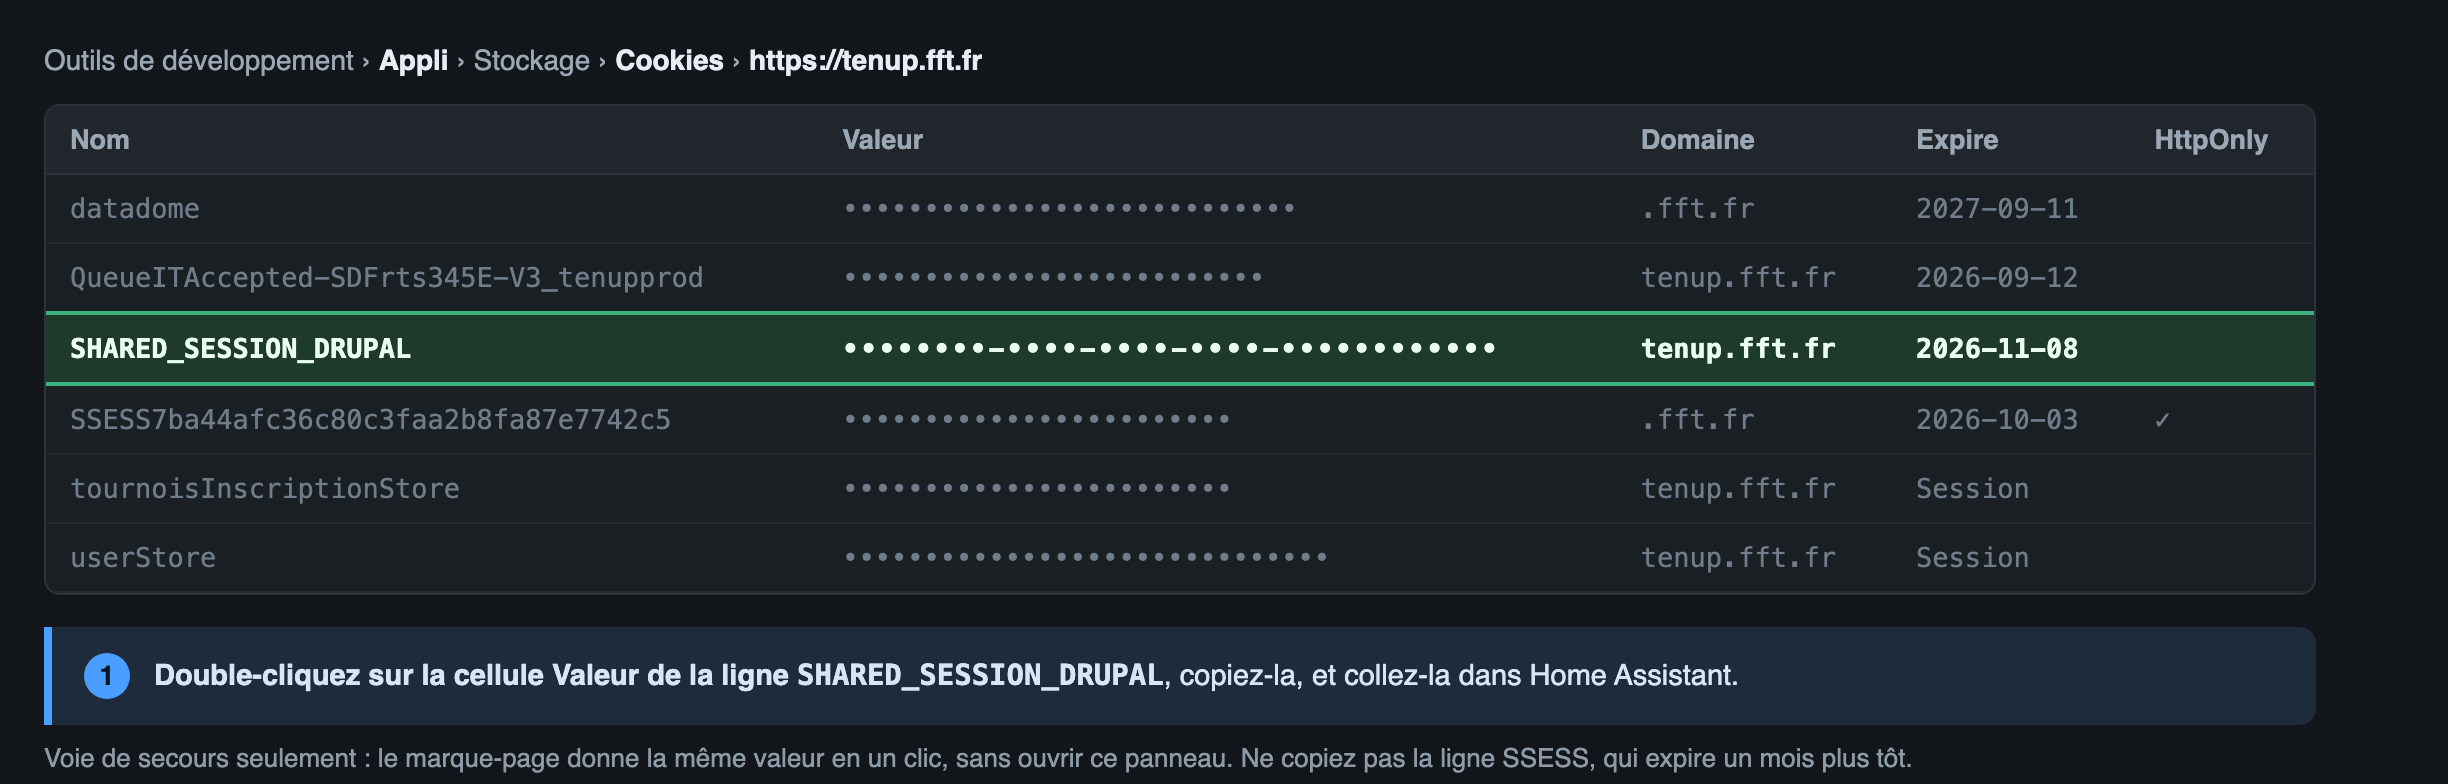
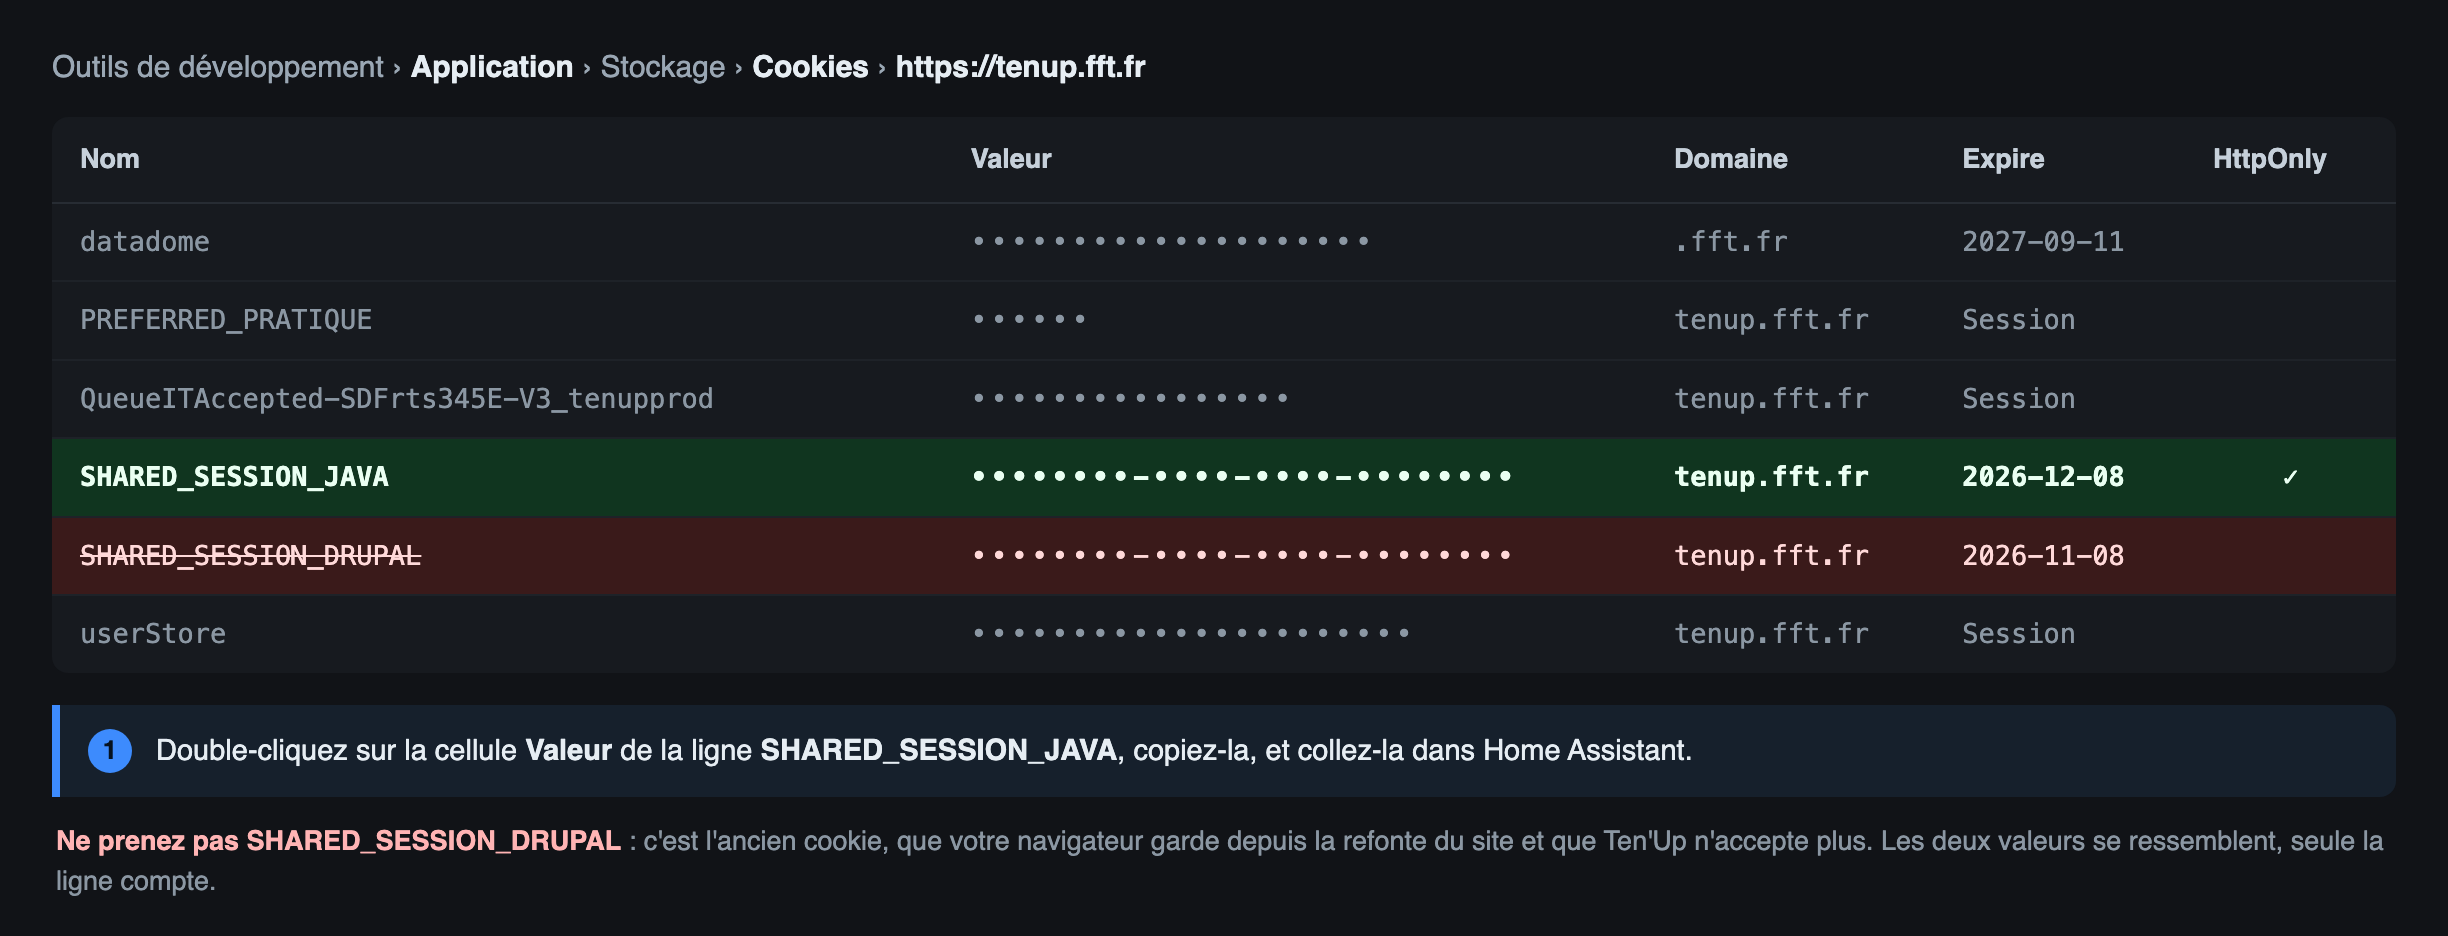
docs: show which cookie row to copy, in the dialog itself
Both session cookies are plain UUIDs sitting one above the other, and a
browser that lived through the rebuild still carries the old one, so
nothing in the values tells them apart. The dialog now carries the picture
rather than only the name: the row to take highlighted, the one to leave
struck through, with the HttpOnly column visible so the reason the
bookmarklet is gone is plain.

The figures are drawn rather than captured: every value is a row of dots,
so no session of anyone's ends up in this repository.

diff --git a/custom_components/tenup/ha-tenup-card.js b/custom_components/tenup/ha-tenup-card.js
@@ -1,4 +1,4 @@
-const CARD_VERSION = "2.0.3";
+const CARD_VERSION = "2.0.4";
 
 console.info(
   "%c HA-TENUP-CARD %c v" + CARD_VERSION + " ",

diff --git a/CHANGELOG.md b/CHANGELOG.md
@@ -1,5 +1,17 @@
 # Changelog
 
+## 2.0.4
+
+### The dialog now shows which row to copy
+
+Both session cookies are plain UUIDs sitting next to each other, and a browser
+that lived through the rebuild still carries the old one. Nothing in the values
+tells them apart, so the dialog now carries the picture: the row to take in
+green, the one to leave struck through in red.
+
+The screenshots are drawn, not captured: every value in them is a row of dots,
+so no session of anyone's is in this repository.
+
 ## 2.0.3
 
 ### A pasted session now takes effect without reloading by hand
